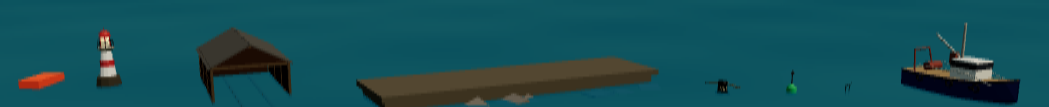
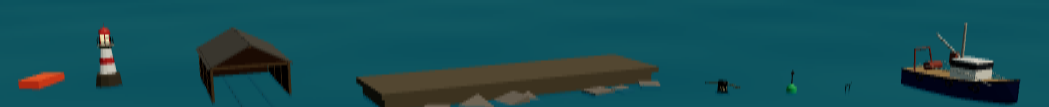
Check that generated artifacts are current, not just consistent (#141)
Every existing check reads a committed artifact and asks whether it is
CONSISTENT. None asked whether it is CURRENT — so a generated-and-committed
file could drift from its generator with nothing to notice. `verify:generated`
regenerates into a snapshot, compares, and puts the original back whatever
happens, including on a crash.

It found real drift immediately: the marine contact sheet predated the
breakwater's shore -> water placement fix, and five sheets were orphans.
Sheet filenames carry their page count, so a category growing past nine
renames its sheets and leaves the old ones behind — still committed, still
shipping to Pages, still showing an outdated subset. The generator now empties
its output directory, which turns that into a visible failure.

The images are compared as PIXELS, NOT BYTES, because the renderer is not
byte-deterministic: two runs on the same commit differ in a scatter of edge
pixels. Measured, that noise is 0.01% of subpixels off by more than 8/255,
against 0.53% for one prop-sized change and 75% for a different camera; the
thresholds sit between. A byte comparison there fails every run and teaches
you to ignore it. tools/png.mjs decodes PNG for the comparison.

Both new checks are mutation-tested — a planted orphan and a planted unlisted
sheet each fail as intended.

Also closed three gaps found auditing for loose ends:

- `verify:deploy` was in no gate, and now runs in `gate:full`; it also now
[…]

diff --git a/dustline/CLAUDE.md b/dustline/CLAUDE.md
@@ -18,15 +18,36 @@
 > screen with one-input restart). Next: M4 combat (weapons, pickups, damage,
 > destruction, kill/respawn).
 >
-> **Out of milestone order: track authoring landed early.** Tracks are now data
-> (`src/data/tracks/*.json`, typed in `src/tracks/trackDef.ts`) with a visual
-> editor at `editor.html` — see `TRACKS.md`. This is M5/M6 infrastructure
-> arriving before M4, done deliberately because authoring worlds by editing
-> constructor literals was the bottleneck on everything else. It is systems,
-> not content, so it does not violate "do not build content before systems are
-> locked" — but the ordering is a conscious departure and worth knowing about.
-> Seeded generation (`src/core/rng.ts`) came with it, which M6 would have
-> needed anyway and which is far cheaper to add before there are 25 tracks.
+> **Out of milestone order: the whole world-authoring pipeline landed early.**
+> Tracks are data (`src/data/tracks/*.json`, typed in `src/tracks/trackDef.ts`),
+> authored in a visual editor at `editor.html` — see `TRACKS.md`. Around it:
+>
+> - **109 world components** (`src/world/props/`), one file per placeable
+>   thing, discovered by glob with no manifest — see `COMPONENTS.md`. Most are
+>   ported verbatim from IGNITE RALLY rather than redesigned.
+> - **A shared shape library** (`src/templates/`) — geometry helpers, 18
+>   dwelling archetypes, boat parts, wall/window textures, horizon forms. It
+>   depends only on `three` and `core/`, and `verify:templates` proves it.
+> - **Water** — a level, a swell surface, depth shading, and `land` / `water` /
+>   `shore` placement so a hull's origin is its waterline.
+> - **New-track presets** (`src/tracks/presets.ts`) — 8 lands × 7 weathers,
+>   lighting numbers ported from v1's `THEMES`.
+> - **Save publishes to the game.** The editor writes into
+>   `src/data/tracks/`, the registry globs that folder, and the picker
+>   (`src/ui/trackSelect.ts`) draws each track's real road outline.
+> - **Deployed** to GitHub Pages on push to `main`.
+>
+> This is M5/M6 infrastructure arriving before M4, done deliberately because
+> authoring worlds by editing constructor literals was the bottleneck on
+> everything else. It is systems, not content, so it does not violate "do not
+> build content before systems are locked" — but the ordering is a conscious
+> departure and worth knowing about. Seeded generation (`src/core/rng.ts`) came
+> with it, which M6 would have needed anyway and which is far cheaper to add
+> before there are 25 tracks.
+>
+> **Before you push:** `npm run gate` for the static checks, `npm run gate:full`
+> for those plus the build, the golden worlds, both smoke suites and a deploy
+> rehearsal served under a Pages-style sub-path.
 
 ## Build order
 

diff --git a/dustline/TRACKS.md b/dustline/TRACKS.md
@@ -309,11 +309,29 @@ Individually:
 |---|---|
 | `verify:track` | `dustbowl.json` reproduces the pre-refactor world exactly |
 | `verify:sdf` | the fast road-distance bake is bit-identical to brute force |
+| `verify:templates` | `src/templates/` still depends on nothing but `three` and `core/`, has no import side effects, and the barrel drops no name |
+| `verify:generated` | the committed `harbour.json` and `proving-ground.json` are what their generators produce *today* |
 | `verify:worlds` | every world matches its committed fingerprint, and does not depend on unseeded randomness |
 | `smoke:editor` | the editor drives, and a packed link opens as that track in the game |
 | `smoke:components` | every component builds, previews, places, and gets the collider its file declares |
+| `verify:deploy` | the committed build works served under a Pages-style sub-path |
 
 The browser checks start their own server, so there is no setup step. After an
 INTENDED world change, re-bless the fingerprints with
 `npm run verify:worlds -- --update` and commit the golden file with the change
 that caused it.
+
+### Generated artifacts
+
+Two tracks and the docs images are generated *and* committed, so they can drift
+from the generator with nothing to notice — every other check reads the
+committed artifact and asks whether it is CONSISTENT; this one asks whether it
+is CURRENT. `verify:generated` regenerates into a snapshot, compares, and puts
+the original back whatever happens.
+
+The images are off by default (`--images`, needs a browser, ~2 min) and are
+compared **as pixels, not bytes** — the renderer is not byte-deterministic. Two
+runs on the same commit differ in a scatter of edge pixels: measured, 0.01% of
+subpixels off by more than 8/255, against 0.53% for one prop-sized change and
+75% for a different camera. The thresholds sit between. A byte comparison there
+fails every run and teaches you to ignore it.

diff --git a/ARCHITECTURE.md b/ARCHITECTURE.md
@@ -433,7 +433,7 @@ original world exactly, and every component count in the golden file is
 byte-identical across all three tracks. The whole delta is the horizon's extra
 instances — +105, +85 and +75, matching the peak counts exactly.
 
-**The library is 108 components, and 44 of them were built in parallel.** Four
+**The library is 109 components, and 44 of them were built in parallel.** Four
 agents, one asset set each, each owning a disjoint list of new files — which
 worked because the registry discovers the folder and there is no manifest to
 contend over. A stone harbour, roads and crossings, a vineyard and farmland,
